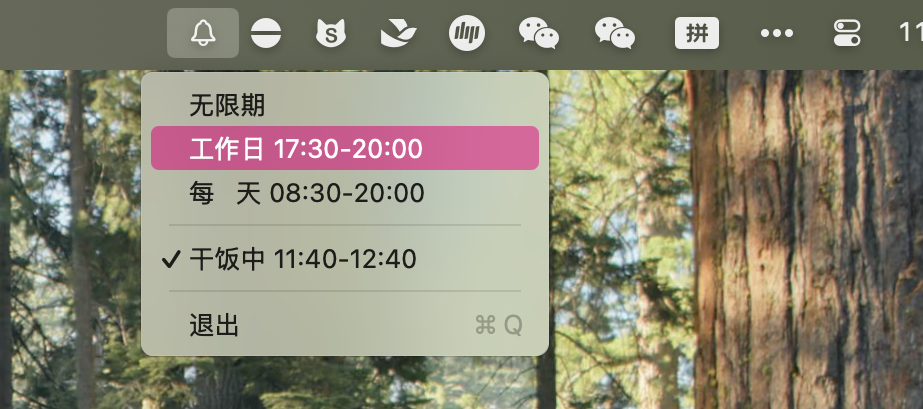
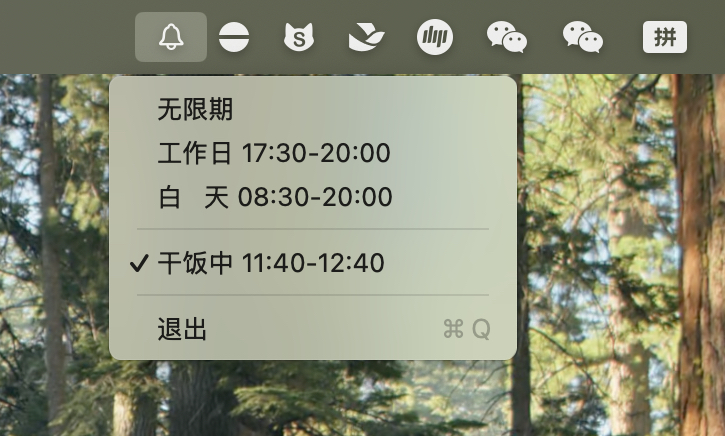
更新菜单截图，仓库名改为 WeChat-Push

diff --git a/README.md b/README.md
@@ -1,4 +1,4 @@
-# WeChat2Push
+# WeChat-Push
 
 把微信（分身）的新消息推到飞书，在飞书里引用那条消息回复，内容会发回对应的微信会话。
 
@@ -33,8 +33,8 @@
 ### 1. 编译
 
 ```bash
-git clone https://github.com/wwJay1024/WeChat2Push.git
-cd WeChat2Push
+git clone https://github.com/wwJay1024/WeChat-Push.git
+cd WeChat-Push
 ./build.sh
 ```
 
